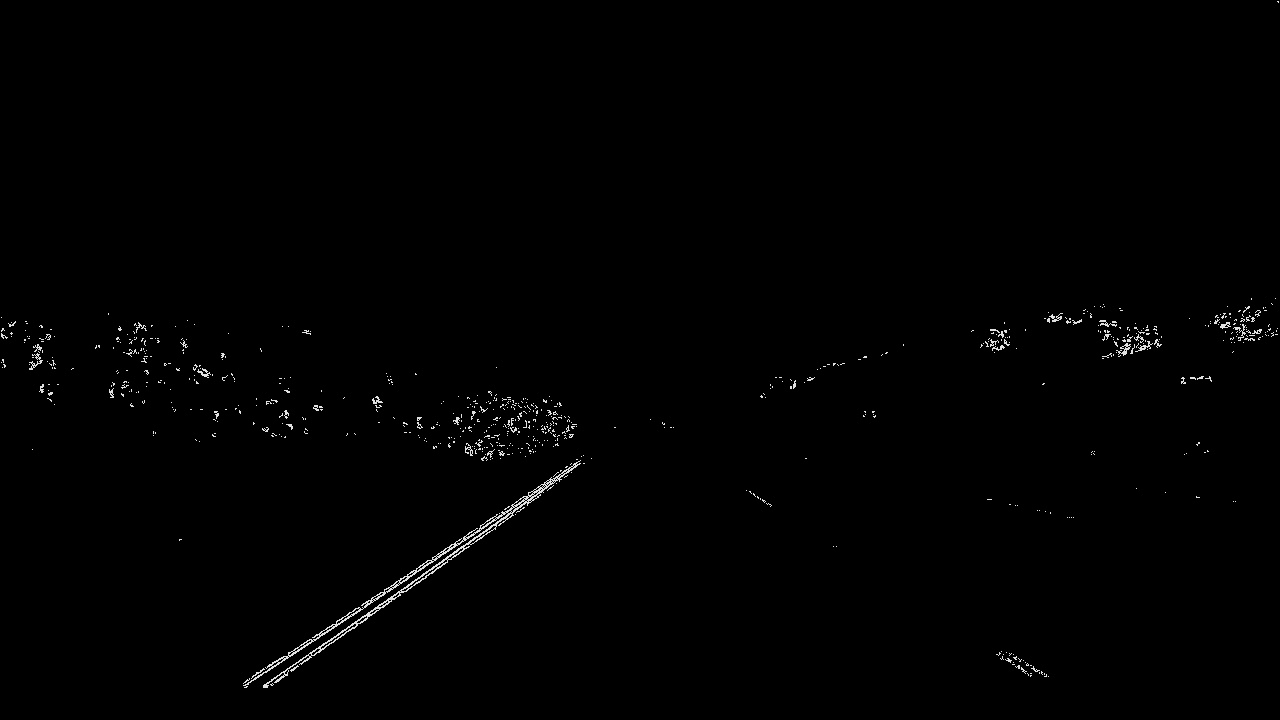
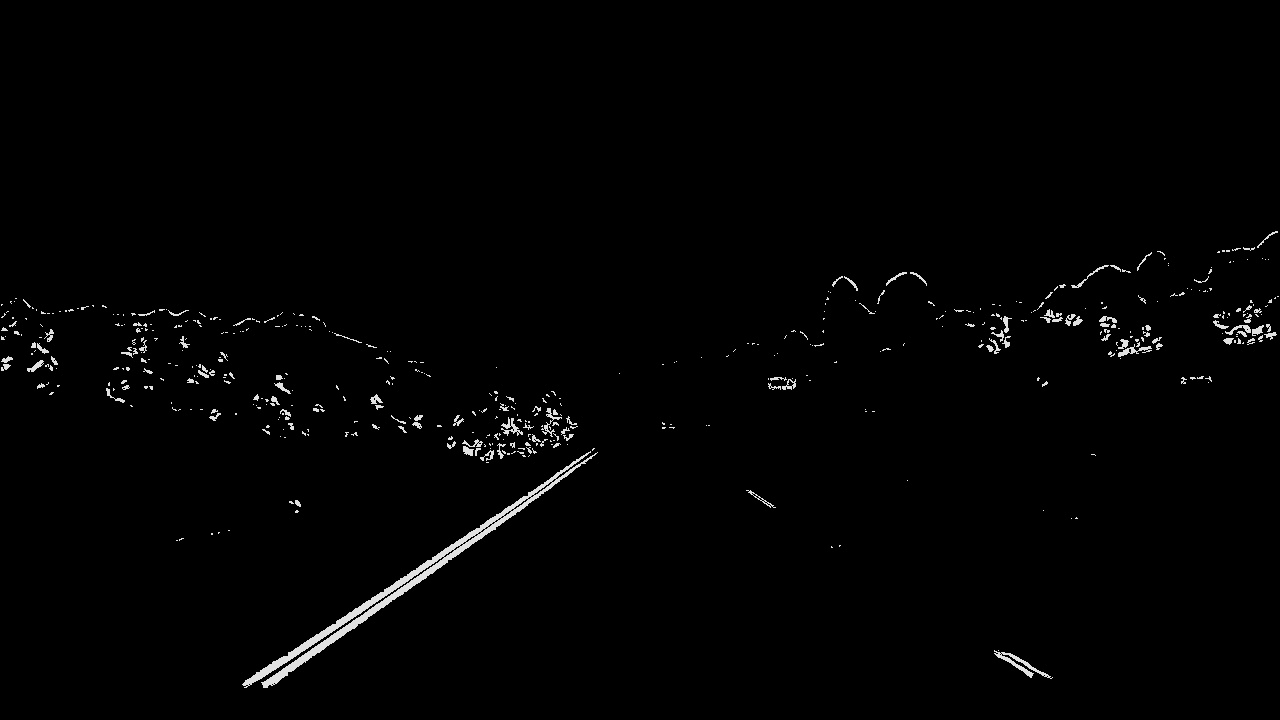
increase sabel kernal for image proccessing,

diff --git a/util_vision.py b/util_vision.py
@@ -159,7 +159,7 @@ class qVision:
         hls_binary = hls_select(image_orig, thresh=(66, 255))
         # image[(hls_binary != 1)]  = 0
         # Run the function
-        mag_binary = mag_thresh(image_orig, sobel_kernel=3, thresh=(50, 120 ))
+        mag_binary = mag_thresh(image_orig, sobel_kernel=27, thresh=(50, 220 ))
 
         dir_binary = dir_threshold(image_orig, sobel_kernel=15, thresh=(np.pi*20.0/180.0, np.pi*80.0/180.0)) 
         # dir_binary = dir_threshold(image_orig2, sobel_kernel=15, thresh=(0.7, 1.2) ) # 40~80 degree
@@ -243,13 +243,13 @@ def main():
 
 
 
-    img_bgr = cv2.imread('udacity/test_images/test5.jpg')
+    img_bgr = cv2.imread('udacity/test_images/test1.jpg')
 
 
     img_rgb = cv2.cvtColor(img_bgr, cv2.COLOR_BGR2RGB)
     img_procd = vision.processImg(img_rgb)
 
-    DBG_CompareImages(img_rgb, img_procd, 'Original Image', 'Processed Image', cmap2='gray')
+    DBG_CompareImages(img_rgb, img_procd, 'Original Image', 'Thresholded Binary Image', cmap2='gray')
 
         
 
